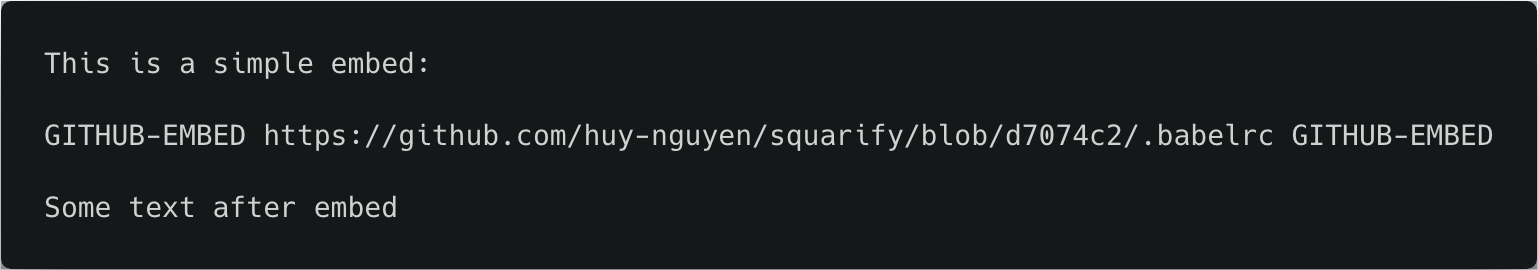
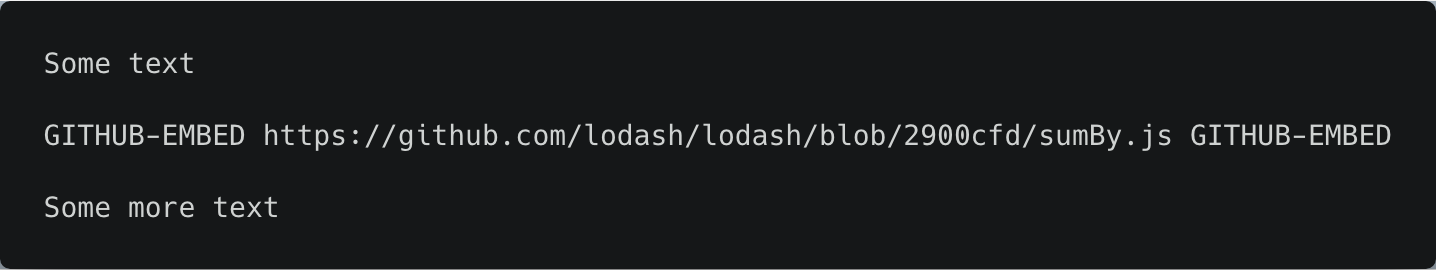
docs: add GitHub file URLs to sample inputs & outputs

Changed region(s): [[0.0306, 0.4444, 0.9805, 0.563], [0.0306, 0.1778, 0.2758, 0.2963], [0.0306, 0.7111, 0.2758, 0.8296]]

diff --git a/README.md b/README.md
@@ -67,7 +67,7 @@ process.process(input, (err, output) => {
 
 To embed a GitHub file, copy theURL of that file from the browser's location bar and paste it into a new Markdown paragraph that begins and ends with the `marker` phrase. Preferably, that URL should be a [permanent link](https://help.github.com/articles/getting-permanent-links-to-files/) so that the content you're pointing to doesn't change without your knowledge in the future.
 
-For example, with the above config, to embed the file [https://github.com/huy-nguyen/squarify/blob/d7074c2/.babelrc](https://github.com/huy-nguyen/squarify/blob/d7074c2/.babelrc), do this:
+For example, with the above config, to embed the file [https://github.com/lodash/lodash/blob/2900cfd/sumBy.js](https://github.com/lodash/lodash/blob/2900cfd/sumBy.js), do this:
 
 ![Sample input with no language and no line range](img/no-language-no-range-input.png)
 
@@ -87,18 +87,21 @@ You can even pick out individual lines or line ranges from the file.
 
 ![Sample input with language and line range](img/have-language-have-range-input.png)
 
+In this case, we picked line 1, line 2 and lines 27 through 31.
 This is the Markdown output of the plugin:
 
 ![Sample output with language and line range](img/have-language-have-range-output.png)
 
-For a list of supported notations, [click here](https://github.com/euank/node-parse-numeric-range#supported-expressions).
+For a list of supported line range notations, [click here](https://github.com/euank/node-parse-numeric-range#supported-expressions).
 
 ## Configuration
 - `marker` (`string`, required): a string to mark the start and end of an embed block e.g. `GITHUB-EMBED`. This string should not have any special Markdown formatting in there. For exapmle, `GITHUB_EMBED` won't work because before this plugin ever sees that phrase, `remark` would have processed it into a `GITHUB` regular text node and an `EMBED` italicized text node, causing this plugin to not recognize the marker.
 - `insertEllipsisComments` (`boolean`, required): whether or not to insert line comments between noncontiguous portions of code. For example, if you chose to insert only lines 1 and 4 of a file into a code block, setting this to `true` will insert a line comment like `// ...` between lines 1 and 4.
   - `ellipsisPhrase` (`string`, required if `insertEllipsisComments` is `true`): The phrase to follow the line comment marker. For example `...` will insert `// ...` between noncontiguous portions of code.
-- `useCache` (`boolean`, required): if `true`, the responses of AJAX calls to GitHub will be cached.
+- `useCache` (`boolean`, required): if `true` (recommended), the responses of AJAX calls to GitHub will be cached.
+The cache directory is inside the `TMPDIR` environment variable: `$TMPDIR/$USER/if-you-need-to-delete-this-open-an-issue-async-disk-cache/yourCacheKey`.
   - `cacheKey` (`string`, required if `useCache` is true): this is used for cache busting or to differentiate between potentially other caches stored by [`async-disk-cache`](https://www.npmjs.com/package/async-disk-cache) (which is the caching library used by this package).
+  If you include a version number in your cache key (e.g. `remark-github-plugin-v1`), an easy way to bust the cache is to increase the version (`remark-github-plugin-v2`).
 - `token` (`string`, required): A [GitHub personal access token](https://help.github.com/articles/creating-a-personal-access-token-for-the-command-line/) with the [`public_repo` scope](https://developer.github.com/apps/building-oauth-apps/scopes-for-oauth-apps/#available-scopes) (if you only need to fetch content from public repos) or [`repo` scope](https://developer.github.com/apps/building-oauth-apps/scopes-for-oauth-apps/#available-scopes) (if you need to also access private repos).
 
 ## Contributors
